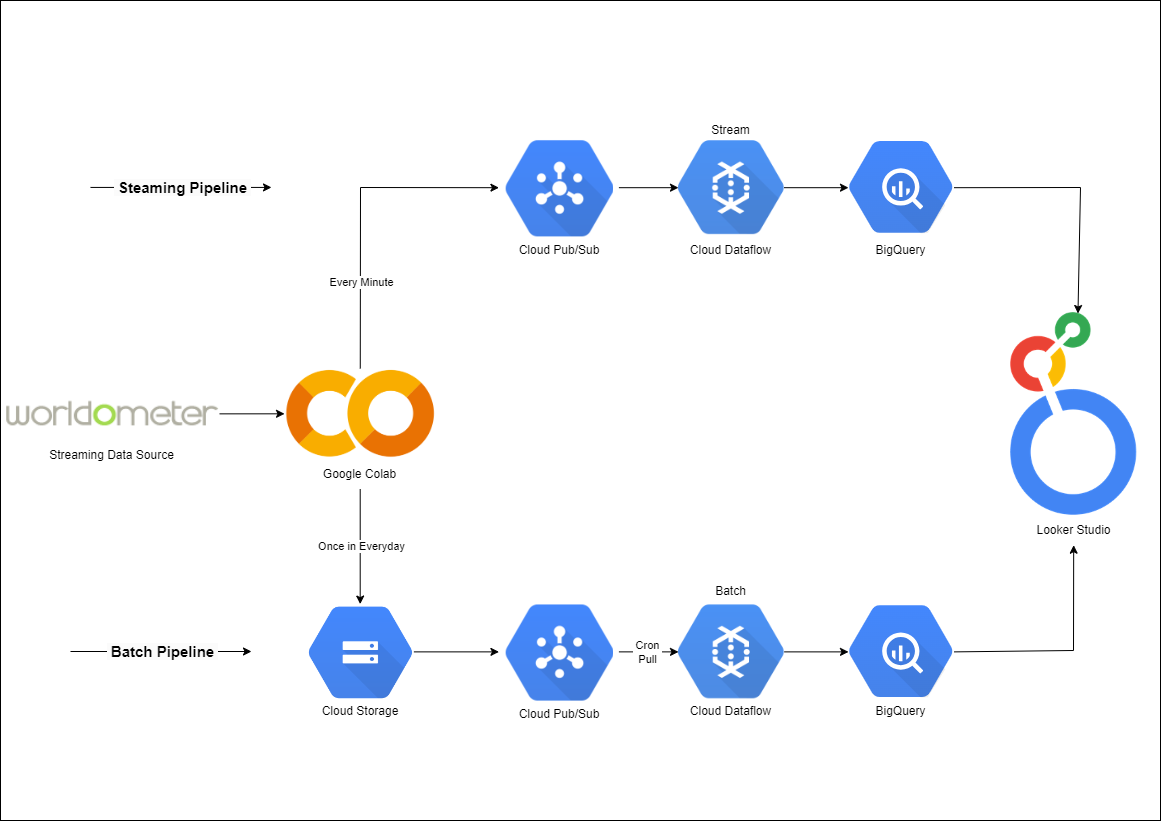
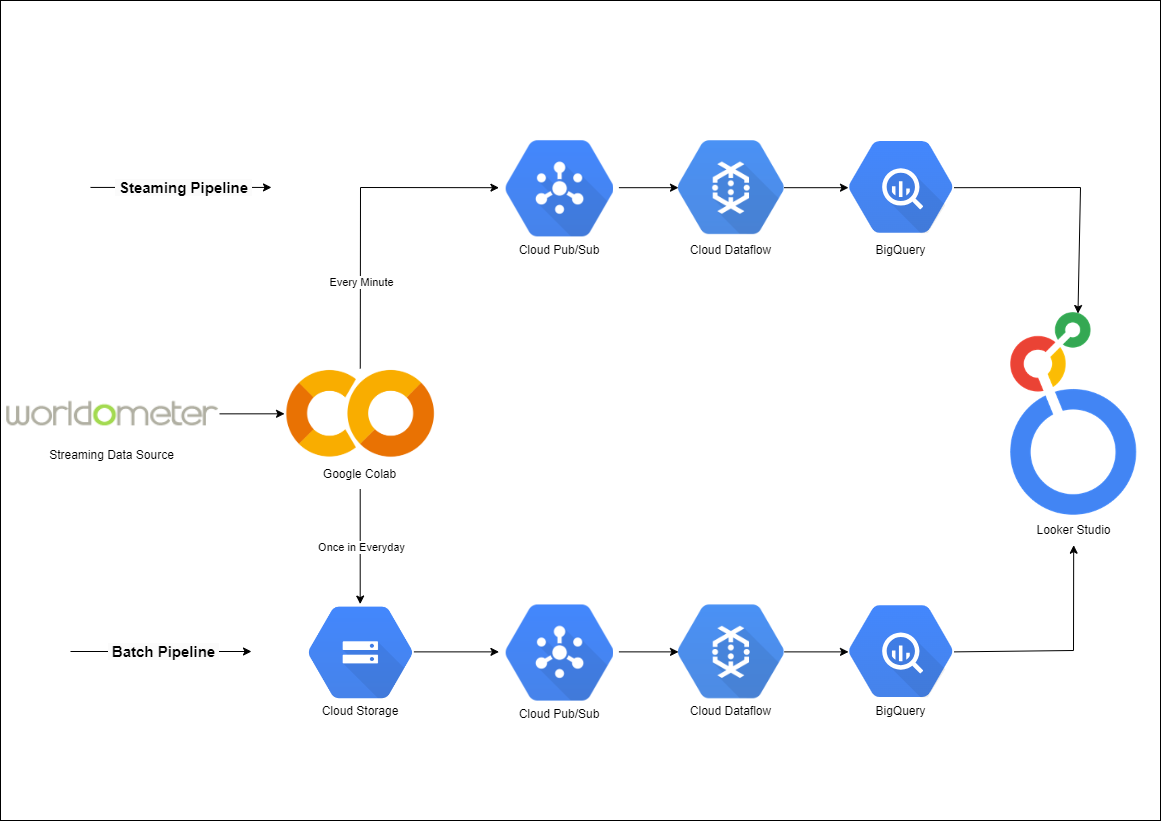
update batch

diff --git a/Batch_Pipeline/DataFlow_Batch.py b/Batch_Pipeline/DataFlow_Batch.py
@@ -10,6 +10,9 @@ class MyPipelineOptions(PipelineOptions):
        # Add your pipeline-specific command line arguments here
        pass
 
+def process_pubsub(element):
+   return element['name']
+
 def process_element(element):
    # Define your data processing logic here
    element = element.decode('utf-8')
@@ -22,10 +25,12 @@ def run(args):
     table_spec = args.project+':dataflow_dataset.covid_table'
     table_schema = 'Country:STRING, TotalCases:STRING, NewCases:STRING, TotalDeaths:STRING, NewDeaths:STRING, TotalRecovered:STRING, NewRecovered:STRING, ActiveCases:STRING, Serious_Critical:STRING, TotalCases 1M:STRING, Deaths:STRING, TotalTests:STRING, Tests:STRING, Population:STRING, Continent:STRING, 1 Caseevery X ppl:STRING, 1 Deathevery X ppl:STRING, 1 Testevery X ppl:STRING, New Cases:STRING, New Deaths:STRING, Active Cases:STRING'
 
-    pipeline_options = MyPipelineOptions()
+    pipeline_options = MyPipelineOptions(streaming=True)
     with beam.Pipeline(options=pipeline_options) as p:
         (p
-        | "Read Data" >> beam.io.ReadFromText(args.filename,skip_header_lines=1)
+        | "Read from Pub/Sub" >> beam.io.ReadFromPubSub(subscription="projects/"+args.project+"/subscriptions/dataflow-pubsub-sub")
+        | "Process Data" >> beam.Map(process_pubsub)
+        | "Read Files" >> beam.io.ReadAllFromText(skip_header_lines=1)
         | "Process Data" >> beam.Map(process_element)
         | "Load Data" >> beam.io.WriteToBigQuery(
                             table_spec,
